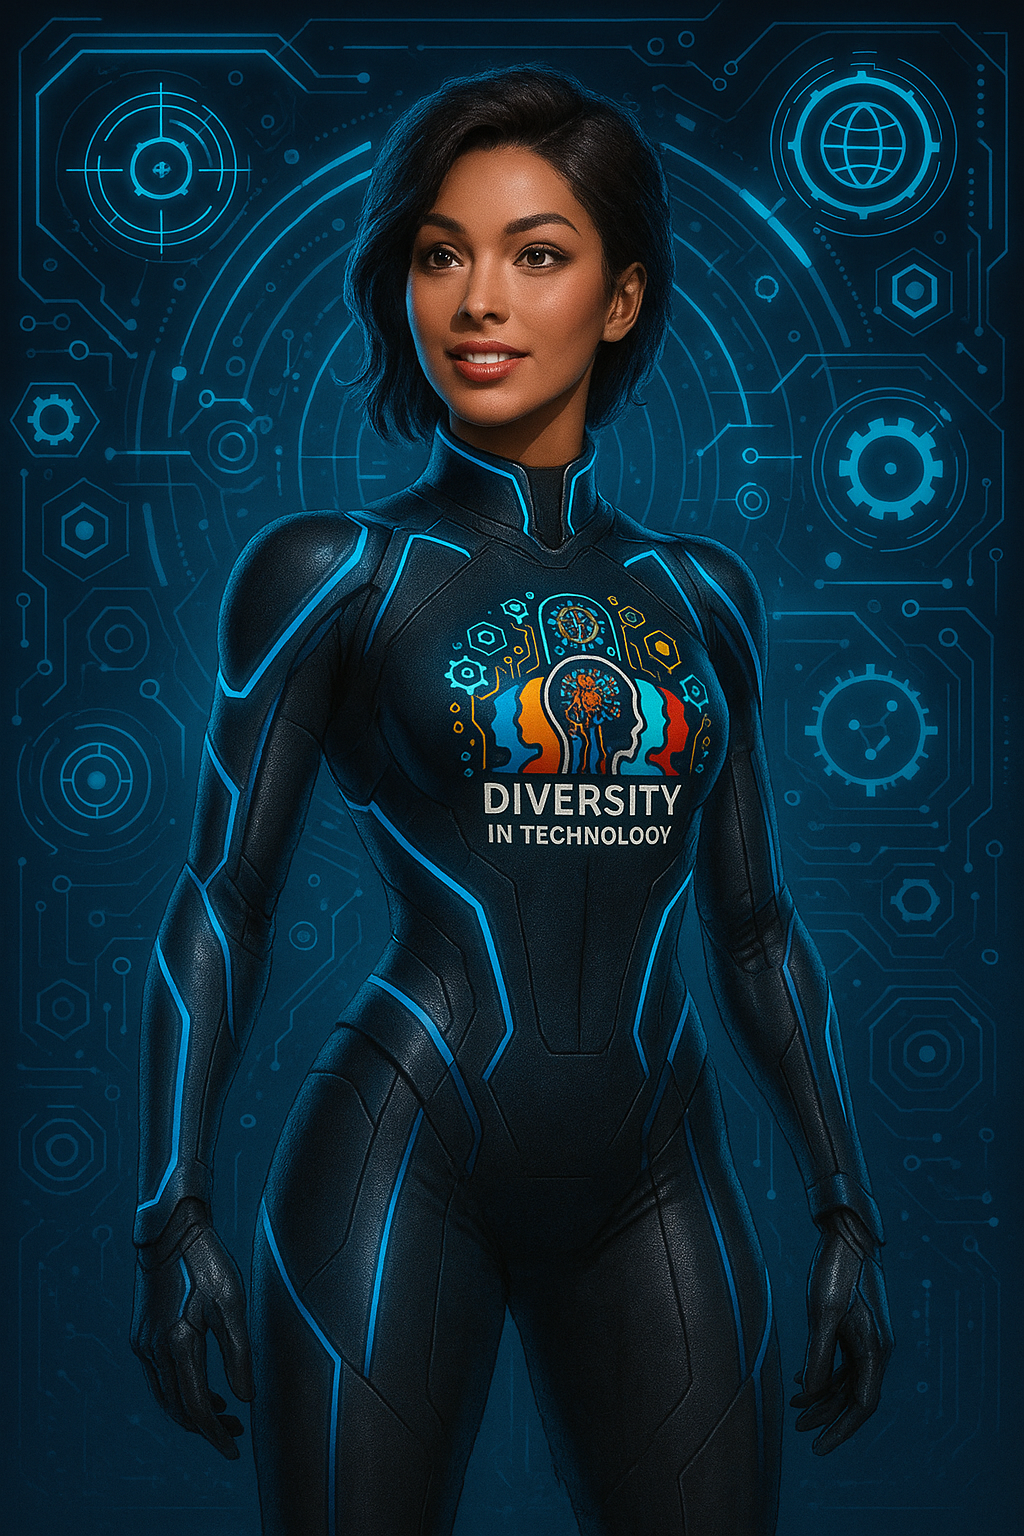
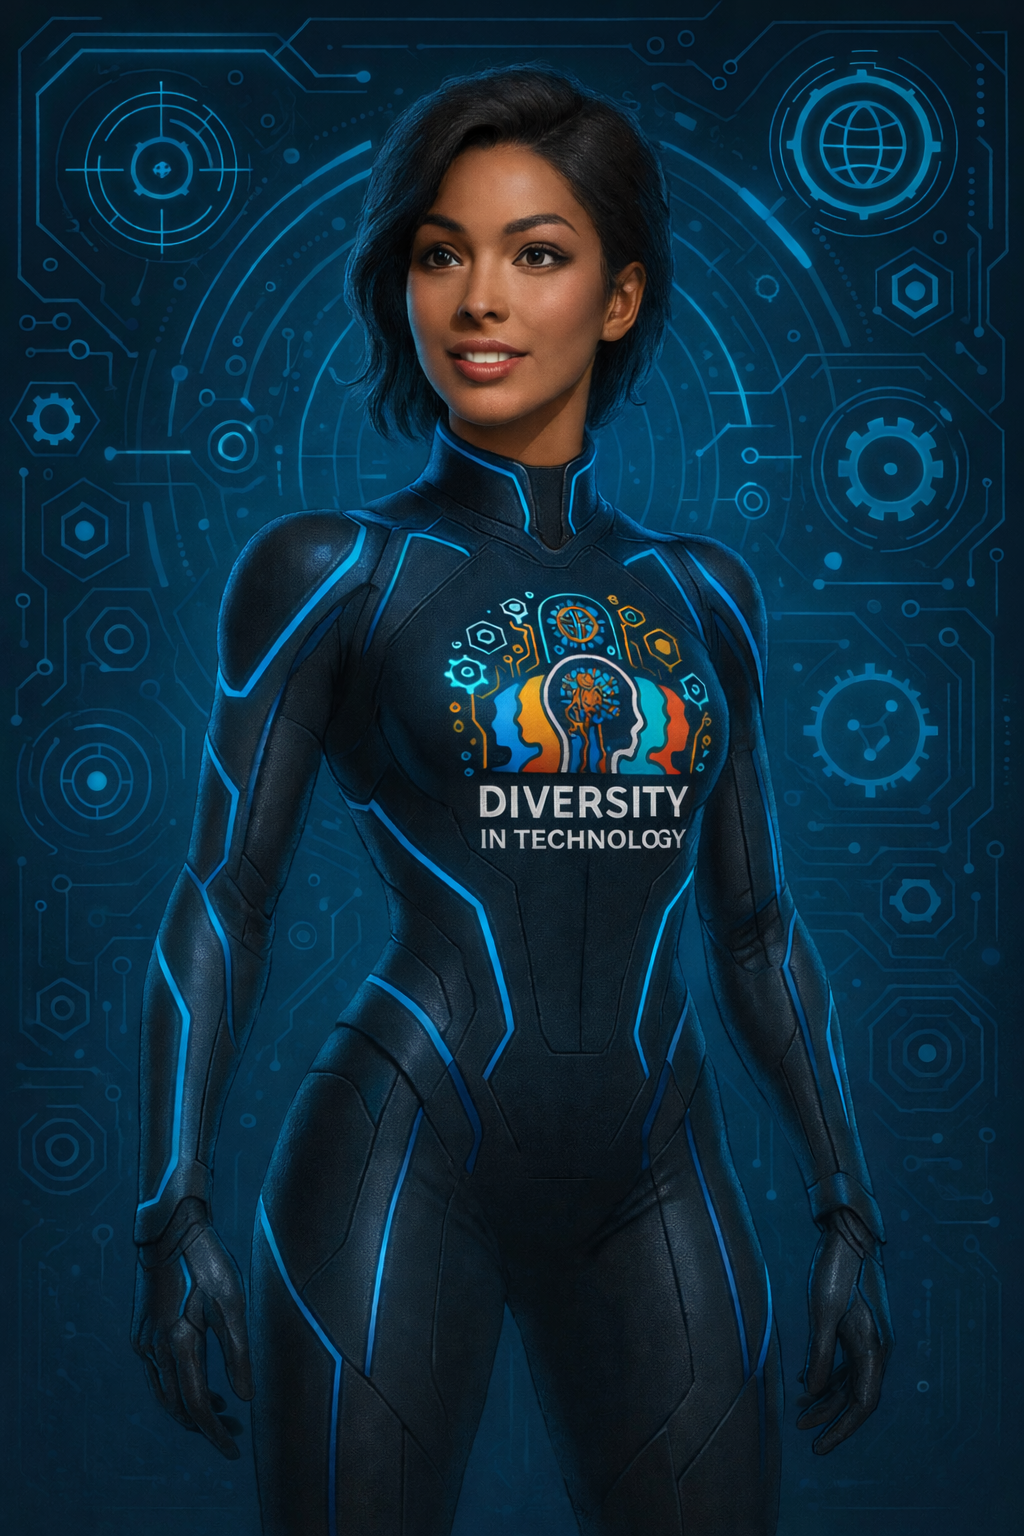
update

diff --git a/components/Testimonials.vue b/components/Testimonials.vue
@@ -7,89 +7,163 @@
         Testimonials / Student Stories
       </h2>
 
-      <div class="flex gap-6 overflow-x-auto no-scrollbar pb-6">
-        <div
-          v-for="(testimonial, index) in testimonials"
-          :key="index"
-          class="min-w-[300px] bg-gray-100 text-primary p-6 rounded-2xl shadow-lg flex-shrink-0 relative"
+      <div class="relative">
+        <!-- Left Arrow -->
+        <button
+          v-if="showLeftArrow"
+          class="absolute left-0 top-1/2 -translate-y-1/2 -translate-x-4 md:-translate-x-8 z-10 bg-accent-blue hover:bg-blue-600 text-white rounded-full p-3 shadow-lg transition-all duration-300 opacity-80 hover:opacity-100"
+          @click="scrollLeft"
+          aria-label="Scroll left"
         >
-          <div class="absolute -top-4 left-4 text-accent-blue text-3xl top-2">
-            <Icon name="mdi:format-quote-open" />
-          </div>
+          <Icon name="mdi:chevron-left" class="text-2xl" />
+        </button>
 
-          <div class="flex justify-center mb-4">
-            <img
-              v-if="testimonial.image"
-              :src="testimonial.image"
-              :alt="testimonial.name"
-              class="w-20 h-20 object-cover rounded-full border-4 border-accent-blue"
-            />
-            <initials-circle
-              v-else
-              class="mb-2"
-              width="60"
-              height="60"
-              :initials="testimonial.name"
-            />
-          </div>
+        <!-- Testimonials Container -->
+        <div
+          ref="scrollContainer"
+          class="flex gap-6 overflow-x-auto no-scrollbar pb-6 scroll-smooth"
+          @scroll="updateArrowVisibility"
+        >
+          <div
+            v-for="(testimonial, index) in testimonials"
+            :key="index"
+            class="min-w-[300px] bg-gray-100 text-primary p-6 rounded-2xl shadow-lg flex-shrink-0 relative"
+          >
+            <div class="absolute -top-4 left-4 text-accent-blue text-3xl top-2">
+              <Icon name="mdi:format-quote-open" />
+            </div>
 
-          <h3 class="text-lg font-semibold text-center">
-            {{ testimonial.name }},
-            <span class="text-sm text-gray-500">{{ testimonial.age }} yrs</span>
-          </h3>
+            <div class="flex justify-center mb-4">
+              <img
+                v-if="testimonial.image"
+                :src="testimonial.image"
+                :alt="testimonial.name"
+                class="w-20 h-20 object-cover rounded-full border-4 border-accent-blue"
+              />
+              <initials-circle
+                v-else
+                class="mb-2"
+                width="60"
+                height="60"
+                :initials="testimonial.name"
+              />
+            </div>
 
-          <p class="mt-3 text-center text-sm italic text-gray-700">
-            “{{ testimonial.quote }}”
-          </p>
+            <h3 class="text-lg font-semibold text-center">
+              {{ testimonial.name }},
+              <span class="text-sm text-gray-500">{{ testimonial.age }} yrs</span>
+            </h3>
 
-          <div class="mt-4 flex justify-center">
-            <Icon
-              v-for="i in 5"
-              :key="i"
-              name="mdi:star"
-              class="text-yellow-400"
-            />
+            <p class="mt-3 text-center text-sm italic text-gray-700">
+              "{{ testimonial.quote }}"
+            </p>
+
+            <div class="mt-4 flex justify-center">
+              <Icon
+                v-for="i in 5"
+                :key="i"
+                name="mdi:star"
+                class="text-yellow-400"
+              />
+            </div>
           </div>
         </div>
+
+        <!-- Right Arrow -->
+        <button
+          v-if="showRightArrow"
+          class="absolute right-0 top-1/2 -translate-y-1/2 translate-x-4 md:translate-x-8 z-10 bg-accent-blue hover:bg-blue-600 text-white rounded-full p-3 shadow-lg transition-all duration-300 opacity-80 hover:opacity-100"
+          @click="scrollRight"
+          aria-label="Scroll right"
+        >
+          <Icon name="mdi:chevron-right" class="text-2xl" />
+        </button>
       </div>
     </div>
   </section>
 </template>
 
 <script setup lang="ts">
+import { ref, onMounted, onUnmounted } from "vue";
+
+const scrollContainer = ref<HTMLElement | null>(null);
+const showLeftArrow = ref(false);
+const showRightArrow = ref(true);
+
 const testimonials = [
   {
-    name: "Jaquile Baird",
-    age: "18",
+    name: "Abdoulaye Fall",
+    age: 29,
+    quote:
+      "DIT helped me transition into a tech career. The hands-on training and real-world projects prepared me for success in the IT industry.",
+    image: null,
+  },
+  {
+    name: "Christina Howard",
+    age: 28,
+    quote:
+      "The mentorship and support at DIT made all the difference. I gained confidence and skills that opened doors to new opportunities.",
+    image: null,
+  },
+  {
+    name: "Jaquille Baird",
+    age: 24,
     quote:
       "He completed the Helpdesk Support program 90 days ago and got a 74K Helpdesk Job offer. He currently works there now.",
     image: null,
   },
   {
-    name: "Amara",
-    age: 19,
-    quote: "DIT helped me discover my passion for AI!",
-    image: null,
-  },
-  {
-    name: "Jayden",
-    age: 20,
-    quote: "I built my first website thanks to my mentor!",
-    image: null,
-  },
-  {
-    name: "Fatima",
-    age: 18,
-    quote: "I love how DIT makes tech fun and easy to learn.",
-    image: null,
-  },
-  {
-    name: "Michael",
-    age: 21,
-    quote: "The projects at DIT helped me build real-world skills.",
+    name: "Sabria Walls",
+    age: 23,
+    quote:
+      "DIT's programs are practical and relevant. The instructors really care about your success and help you every step of the way.",
     image: null,
   },
 ];
+
+const scrollLeft = () => {
+  if (scrollContainer.value) {
+    const scrollAmount = 320; // 300px card width + 20px gap
+    scrollContainer.value.scrollBy({
+      left: -scrollAmount,
+      behavior: "smooth",
+    });
+  }
+};
+
+const scrollRight = () => {
+  if (scrollContainer.value) {
+    const scrollAmount = 320; // 300px card width + 20px gap
+    scrollContainer.value.scrollBy({
+      left: scrollAmount,
+      behavior: "smooth",
+    });
+  }
+};
+
+const updateArrowVisibility = () => {
+  if (scrollContainer.value) {
+    const { scrollLeft, scrollWidth, clientWidth } = scrollContainer.value;
+    showLeftArrow.value = scrollLeft > 0;
+    showRightArrow.value = scrollLeft < scrollWidth - clientWidth - 10; // 10px threshold
+  }
+};
+
+onMounted(() => {
+  if (scrollContainer.value) {
+    updateArrowVisibility();
+    scrollContainer.value.addEventListener("scroll", updateArrowVisibility);
+    // Also check on resize
+    window.addEventListener("resize", updateArrowVisibility);
+  }
+});
+
+onUnmounted(() => {
+  if (scrollContainer.value) {
+    scrollContainer.value.removeEventListener("scroll", updateArrowVisibility);
+    window.removeEventListener("resize", updateArrowVisibility);
+  }
+});
 </script>
 
 <style scoped>
@@ -99,5 +173,17 @@ const testimonials = [
 .no-scrollbar {
   -ms-overflow-style: none;
   scrollbar-width: none;
+}
+
+.scroll-smooth {
+  scroll-behavior: smooth;
+}
+
+/* Hide arrows on very small screens */
+@media (max-width: 640px) {
+  button[aria-label="Scroll left"],
+  button[aria-label="Scroll right"] {
+    display: none;
+  }
 }
 </style>

diff --git a/components/MainNavbar.vue b/components/MainNavbar.vue
@@ -47,6 +47,11 @@
       <!-- Navigation Links (Desktop) -->
       <ul class="hidden md:flex space-x-8 text-sm font-medium">
         <li>
+          <NuxtLink to="/" class="hover:text-secondary transition"
+            >Home</NuxtLink
+          >
+        </li>
+        <li>
           <NuxtLink
             to="https://lms.diversityintechnology.org/chamilo/chamilo/"
             class="hover:text-secondary transition"
@@ -107,6 +112,7 @@
       v-if="isOpen"
       class="md:hidden flex flex-col gap-4 mt-4 px-6 pb-4 bg-primary"
     >
+      <NuxtLink to="/" class="hover:text-secondary transition">Home</NuxtLink>
       <NuxtLink to="/programs" class="hover:text-secondary transition"
         >Student Portal</NuxtLink
       >
